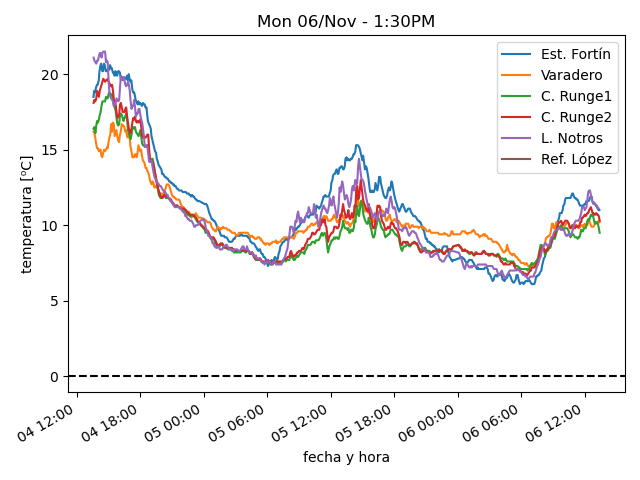
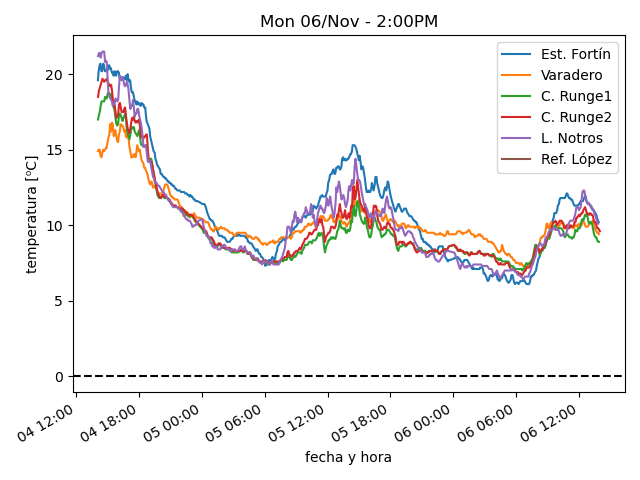
actualiza datos

diff --git a/estaciones/estacion4.html b/estaciones/estacion4.html
@@ -18,37 +18,37 @@
     </tr>
     <tr>
      <td class="stats_data">
-      1:24PM
+      1:59PM
      </td>
     </tr>
     <tr>
      <td class="stats_data">
-      10.3⁰C
+      9.6⁰C
      </td>
     </tr>
     <tr>
      <td class="stats_data">
-      7.8⁰C
+      7.6⁰C
      </td>
     </tr>
     <tr>
      <td class="stats_data">
-      84.3%
+      87.9%
      </td>
     </tr>
     <tr>
      <td class="stats_data">
-      1011.62hPa
+      1012.02hPa
      </td>
     </tr>
     <tr>
      <td class="stats_data">
-      1.1/2.0 km/hr SW
+      1.5/2.4 km/hr WSW
      </td>
     </tr>
     <tr>
      <td class="stats_data">
-      0.2 / 1.19 mm
+      0.51 / 1.8 mm
      </td>
     </tr>
     <tr>
@@ -58,7 +58,7 @@
     </tr>
     <tr>
      <td class="stats_data">
-      175.8 W/m²
+      175.3 W/m²
      </td>
     </tr>
    </tbody>

diff --git a/estaciones/estacion3.html b/estaciones/estacion3.html
@@ -18,37 +18,37 @@
     </tr>
     <tr>
      <td class="stats_data">
-      1:24PM
+      1:54PM
      </td>
     </tr>
     <tr>
      <td class="stats_data">
-      9.5⁰C
+      8.9⁰C
      </td>
     </tr>
     <tr>
      <td class="stats_data">
-      8.0⁰C
+      7.8⁰C
      </td>
     </tr>
     <tr>
      <td class="stats_data">
-      90.1%
+      93.1%
      </td>
     </tr>
     <tr>
      <td class="stats_data">
-      1002.81hPa
+      1003.01hPa
      </td>
     </tr>
     <tr>
      <td class="stats_data">
-      4.5/6.2 km/hr NW
+      5.6/7.7 km/hr NW
      </td>
     </tr>
     <tr>
      <td class="stats_data">
-      0.0 / 0.0 mm
+      0.3 / 0.0 mm
      </td>
     </tr>
     <tr>
@@ -58,7 +58,7 @@
     </tr>
     <tr>
      <td class="stats_data">
-      203.8 W/m²
+      208.2 W/m²
      </td>
     </tr>
    </tbody>

diff --git a/estaciones/estacion2.html b/estaciones/estacion2.html
@@ -18,32 +18,32 @@
     </tr>
     <tr>
      <td class="stats_data">
-      1:24PM
+      1:54PM
      </td>
     </tr>
     <tr>
      <td class="stats_data">
-      10.2⁰C
+      9.4⁰C
      </td>
     </tr>
     <tr>
      <td class="stats_data">
-      8.6⁰C
+      8.4⁰C
      </td>
     </tr>
     <tr>
      <td class="stats_data">
-      90.3%
+      94.1%
      </td>
     </tr>
     <tr>
      <td class="stats_data">
-      1008.47hPa
+      1008.81hPa
      </td>
     </tr>
     <tr>
      <td class="stats_data">
-      14.3/17.1 km/hr NW
+      17.4/20.0 km/hr NW
      </td>
     </tr>
     <tr>
@@ -53,12 +53,12 @@
     </tr>
     <tr>
      <td class="stats_data">
-      2.0
+      1.0
      </td>
     </tr>
     <tr>
      <td class="stats_data">
-      230.7 W/m²
+      188.6 W/m²
      </td>
     </tr>
    </tbody>

diff --git a/estaciones/estacion1.html b/estaciones/estacion1.html
@@ -18,32 +18,32 @@
     </tr>
     <tr>
      <td class="stats_data">
-      1:23PM
+      1:53PM
      </td>
     </tr>
     <tr>
      <td class="stats_data">
-      11.0⁰C
+      10.2⁰C
      </td>
     </tr>
     <tr>
      <td class="stats_data">
-      6.5⁰C
+      7.0⁰C
      </td>
     </tr>
     <tr>
      <td class="stats_data">
-      74.0%
+      80.5%
      </td>
     </tr>
     <tr>
      <td class="stats_data">
-      1010.84hPa
+      1011.18hPa
      </td>
     </tr>
     <tr>
      <td class="stats_data">
-      12.8/19.3 km/hr SW
+      9.7/16.1 km/hr W
      </td>
     </tr>
     <tr>
@@ -53,12 +53,12 @@
     </tr>
     <tr>
      <td class="stats_data">
-      1.3
+      1.2
      </td>
     </tr>
     <tr>
      <td class="stats_data">
-      146.0 W/m²
+      139.0 W/m²
      </td>
     </tr>
    </tbody>

diff --git a/estaciones/estacion5.html b/estaciones/estacion5.html
@@ -18,27 +18,27 @@
     </tr>
     <tr>
      <td class="stats_data">
-      1:20PM
+      1:50PM
      </td>
     </tr>
     <tr>
      <td class="stats_data">
-      11.1⁰C
+      10.1⁰C
      </td>
     </tr>
     <tr>
      <td class="stats_data">
-      8.7⁰C
+      8.1⁰C
      </td>
     </tr>
     <tr>
      <td class="stats_data">
-      86.0%
+      88.0%
      </td>
     </tr>
     <tr>
      <td class="stats_data">
-      1012.43hPa
+      1013.07hPa
      </td>
     </tr>
     <tr>
@@ -48,7 +48,7 @@
     </tr>
     <tr>
      <td class="stats_data">
-      0.76 / 0.0 mm
+      1.27 / 0.51 mm
      </td>
     </tr>
     <tr>
